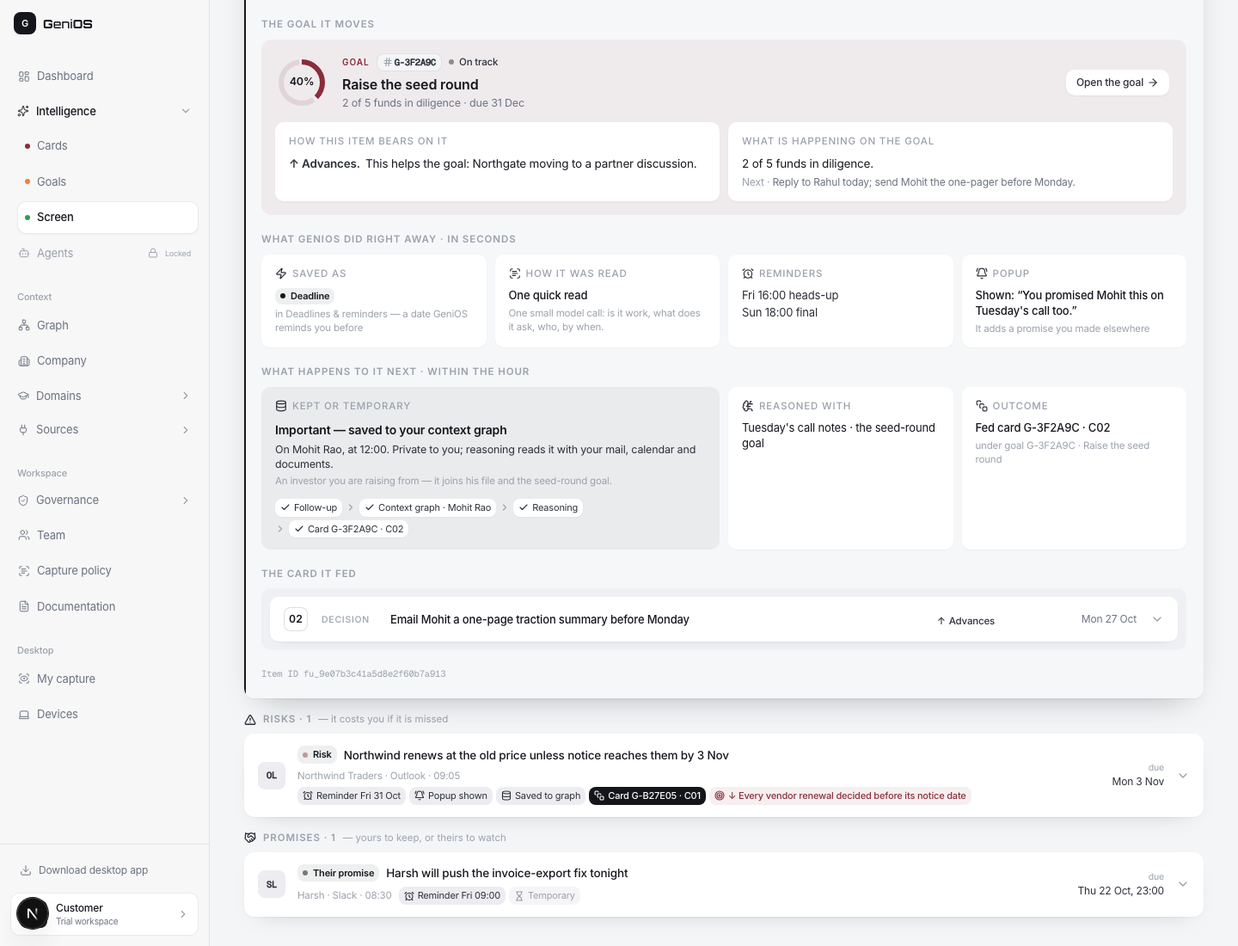
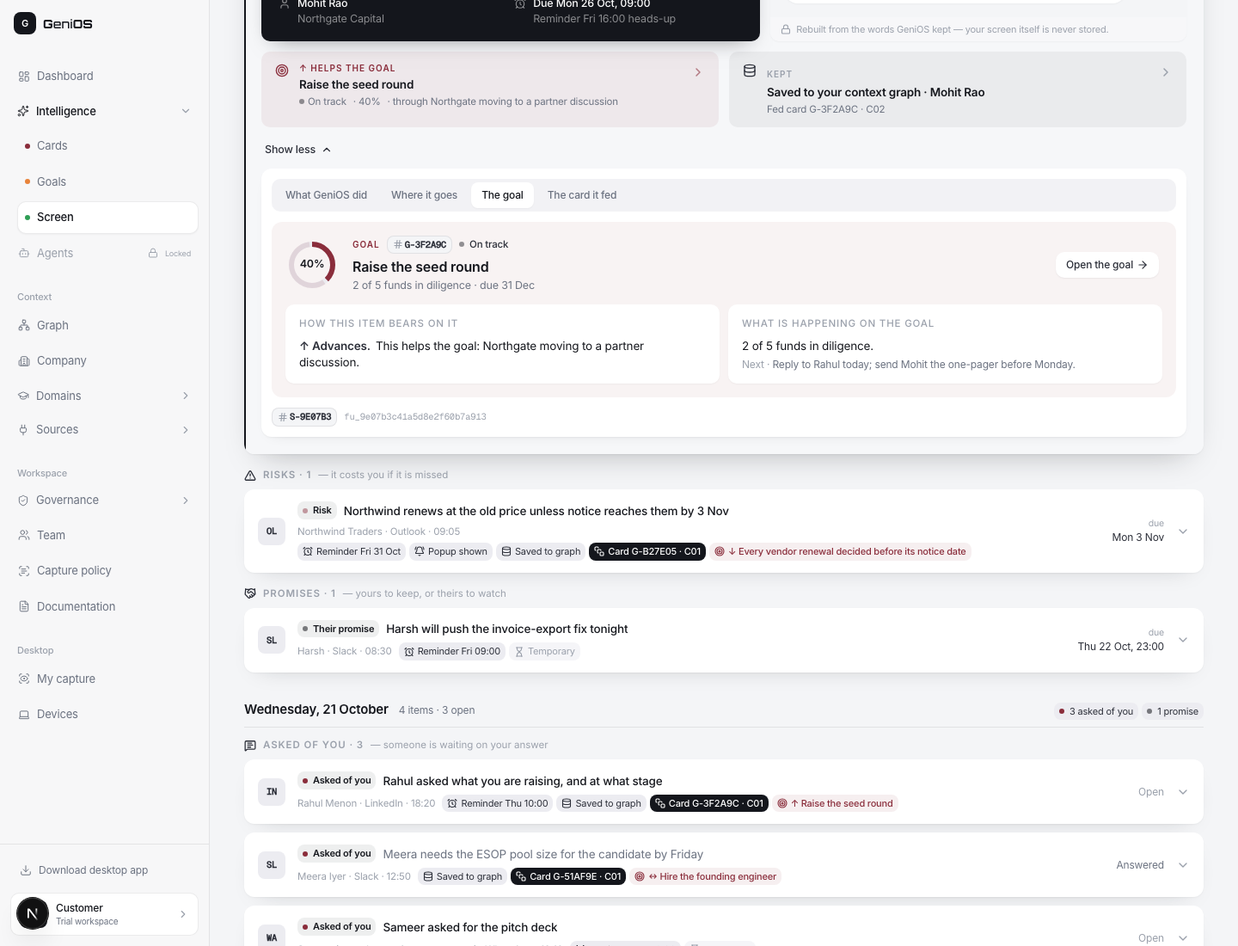
GeniOS-010: Screen round four — an opened item shows what matters first, the rest under Show more
05-SCREEN/README.md §4 rewritten (the five essentials, the Show more tabs), the look table and
files; 01-INTEGRATION.md checks and buttons (⋯ menu); ten screenshots; build review, start page
and log updated.

diff --git a/speedrun008/GeniOS-010/05-SCREEN/README.md b/speedrun008/GeniOS-010/05-SCREEN/README.md
@@ -3,16 +3,17 @@
 **Written for:** Harsh (to wire it in) and Rohit (to review it). The step-by-step wiring — every field, every route, every brain change, the checks — is in **[`01-INTEGRATION.md`](01-INTEGRATION.md)**.
 
 **Status, 22 Oct 2026:**
-- Built on the dashboard branch `rohit/nav-grouping`, in three rounds: `9130f84` (the page), `972d122` (by category, tags, the screen rebuilt, kept or temporary), `9a13d87` (the goal each item moves; cards that stand out by fill, not borders). With `f151019` (the shared card parts) and `5c0504f` (Agents locked). **Not merged, so not live.**
+- Built on the dashboard branch `rohit/nav-grouping`, in four rounds: `9130f84` (the page), `972d122` (by category, tags, the screen rebuilt, kept or temporary), `9a13d87` (the goal each item moves; cards that stand out by fill, not borders), `847eeac` (an opened item shows what matters first; the rest under Show more). With `f151019` (the shared card parts) and `5c0504f` (Agents locked). **Not merged, so not live.**
 - **Route:** `/dashboard/moments`, Intelligence ▸ **Screen**. Members can open it too.
 - **Preview** (the full target, labelled "Preview — not your data"): `/dashboard/moments?demo=1`.
-- `tsc --noEmit` and `next build` are green at `9a13d87`. Checked in the preview at 1440 and 1024 wide, and signed in against the stand-in brain (`../02-DASHBOARD-HOME/tools/mock_brain.py`): Draft a reply and Done ran end to end. The Goals page is unchanged by the shared-part changes (all 10 of its small cards keep their hairline).
+- `tsc --noEmit` and `next build` are green at `847eeac`. Checked in the preview at 1440 and 1024 wide, and signed in against the stand-in brain (`../02-DASHBOARD-HOME/tools/mock_brain.py`): Draft a reply and Done ran end to end. The Goals page is unchanged by the shared-part changes (all 10 of its small cards keep their hairline).
 - It replaces `../02-DASHBOARD-HOME/04-SCREEN.md` (the first, two-lane version).
 
-**What Rohit asked, 22 Oct, in three rounds:**
+**What Rohit asked, 22 Oct, in four rounds:**
 1. *"Screen wale part mein thodi details daal do: kaise, kya, kis tareeke se hoga. Isi tarah ek dummy dikhayein."* and *"Screen aur cards … ek saath ho jaayein, lekin alag-alag rahein."* — and lock Agents.
 2. On the built page: tag every row; *"categories honi chahiye ki Thursday ko kaun-kaun si cheezein kis-kis category mein aayi hain — reminder, update, risk, promise"*; show what was on screen; *"NLP ki madad se one-liner, clear cut"*; where and when properly; *"kuch important hoga to … context graph mein save ho jaayega; temporary rahega to wahin miss ho jaayega"*; *"customer ke hisaab se UX"*.
 3. *"Ye kaun se goal ke saath connected hai … isse goal help ho raha hai aur ye cheezein ho rahi hain"*; and the look: *"kuch cards ko dark kar do, kuch ko white … border mat do; uski jagah thoda sa color idhar-udhar"*.
+4. *"Card ke andar ki details bahut cluttered … zaroori information hi dikhai de; baaki cheezein Show More ke through … clearly segregated."*
 
 **Screenshots** (in `screens/`):
 
@@ -20,13 +21,14 @@
 |---|---|
 | `screen-preview-top.png` | The preview as it opens: the week as a dark band, How Screen works. |
 | `screen-preview-how-and-rules.png` | How Screen works with **The rules** open. |
-| `screen-preview-by-category.png` | What your screen caught: the filters, Thursday's items under their categories, every row with its tags (the goal tag in accent). |
-| `screen-preview-item-open.png` | An item open: the screen rebuilt (due words marked), in one line (dark), who · where · when · due. |
-| `screen-preview-item-goal.png` | The same item: **the goal it moves**, what GeniOS did right away, and what happens next. |
-| `screen-preview-item-card.png` | The card it fed, open inside the item. |
-| `screen-preview-temporary.png` | A temporary item: no goal, not saved to the graph, and why. |
+| `screen-preview-by-category.png` | What your screen caught: the filters, Thursday's items under their categories, rows with their tags. |
+| `screen-preview-item-open.png` | An item opened: only what matters — the line, who and due, the screen rebuilt, the goal strip, the kept strip, Show more. |
+| `screen-preview-show-more.png` | Show more open on *What GeniOS did*. |
+| `screen-preview-item-goal.png` | Show more on *The goal*. |
+| `screen-preview-item-card.png` | Show more on *The card it fed*, the card open. |
+| `screen-preview-temporary.png` | A temporary item: no goal, a follow-up only. |
 | `screen-preview-cards-popups.png` | Cards your screen fed, and the popups. |
-| `screen-signed-in.png` | A signed-in seat against the stand-in brain: real items by category, one open; the goal block says the link is not served yet. |
+| `screen-signed-in.png` | A signed-in seat against the stand-in brain: real items, one open; the goal strip says the link is not served yet. |
 
 ---
 
@@ -78,36 +80,51 @@ Every **work** screen takes **both** paths. The instant path saves what to do no
 
 **Tags on every row:** the category tag first, then — after who · app · time — the next reminder (`Reminder Fri 10:00`), `Popup shown`, `Saved to graph` or `Temporary`, the card it fed (`Card G-3F2A9C · C02`, dark), and **the goal it moves** (`↑ Raise the seed round`, accent). On the right: when it is due, or how it ended.
 
-## 4 · An item, opened
+## 4 · An item, opened (round four: what matters first, the rest under Show more)
+
+Rohit: *"card ke andar ki details bahut cluttered, messed up, aur over-detailed … zaroori information hi dikhai de; baaki Show More … clearly segregated."*
+
+**What a customer sees first** — five things, nothing else:
 
 ```
-SCREEN ITEM #S-9E07B3 · seen on WhatsApp, Thursday 11:40         [Done][Snooze▾][Draft a reply][Done elsewhere][Dismiss]
-ON YOUR SCREEN
- ┌ WhatsApp · chat with Mohit Rao ──────── 11:40 ┐  ┌█ IN ONE LINE (dark) ████████████████████████████████████┐
- │ ┌ Mohit Rao ───────────────────────────────┐   │  █ Mohit wants your traction one-pager before Northgate's  █
- │ │ Partners meet Monday — one-pager on       │   │  █ partner meeting on Monday, 9:00.                         █
- │ │ traction bhej doge _before that_?         │   │  └██████████████████████████████████████████████████████████┘
- │ Rebuilt from the words GeniOS kept — the screen itself is never stored.
- [Who: Mohit Rao · Northgate Capital] [Where: WhatsApp · a chat] [When: Today, 11:40] [Due: Mon 26 Oct, 09:00 · read from "before that"]
-THE GOAL IT MOVES  (accent tint)
- (40%)  GOAL #G-3F2A9C ● On track   Raise the seed round · 2 of 5 funds in diligence · due 31 Dec      [Open the goal →]
- [How this item bears on it: ↑ Advances. This helps the goal: Northgate moving to a partner discussion.]
- [What is happening on the goal: 2 of 5 funds in diligence. Next · Reply to Rahul today; send Mohit the one-pager …]
-WHAT GENIOS DID RIGHT AWAY · IN SECONDS     [Saved as: Deadline] [How it was read] [Reminders] [Popup]
-WHAT HAPPENS TO IT NEXT · WITHIN THE HOUR
- [Kept or temporary: Important — saved to your context graph, on Mohit Rao at 12:00 …
-   ✓ Follow-up › ✓ Context graph · Mohit Rao › ✓ Reasoning › ✓ Card G-3F2A9C · C02]    [Reasoned with] [Outcome]
-THE CARD IT FED     [02] DECISION  Email Mohit a one-page traction summary …   (opens on its own: scenario · reasoning)
+Seen on WhatsApp · today, 11:40                                   [Done] [Snooze ▾] [Draft a reply] [⋯]
+┌█ IN ONE LINE ███████████████████████████████████████┐ ┌ WhatsApp · chat with Mohit Rao ── 11:40 ┐
+█ Mohit wants your traction one-pager before            █ │ ┌ Mohit Rao ─────────────────────────┐ │
+█ Northgate's partner meeting on Monday, 9:00.          █ │ │ Partners meet Monday — one-pager … │ │
+█ ─────────────────────────────────────────────────────█ │ │ bhej doge _before that_?            │ │
+█ 👤 Mohit Rao · Northgate Capital   ⏰ Due Mon 26 Oct, 09:00 · Reminder Fri 16:00 █ │ Rebuilt from the kept words … │
+└██████████████████████████████████████████████████████┘ └──────────────────────────────────────────┘
+┌ ↑ HELPS THE GOAL (accent) ──────────────────────────┐ ┌ KEPT (ink tint) ────────────────────────┐
+│ Raise the seed round                              › │ │ Saved to your context graph · Mohit Rao › │
+│ ● On track · 40% · through Northgate moving …       │ │ Fed card G-3F2A9C · C02                   │
+└─────────────────────────────────────────────────────┘ └───────────────────────────────────────────┘
+Show more ▾ — What GeniOS did · Where it goes · The goal · The card it fed
 ```
 
-- **The screen, rebuilt.** The screen is never stored, so there is no screenshot to show. The page rebuilds what was seen from what *is* kept — the app, the person, the time and the ≤ 12 words — as a chat bubble (WhatsApp, Slack, LinkedIn …; your own message on the right, dark), a mail line (Outlook, Gmail) or a page line (a browser). The words that set the due date are marked.
-- **In one line.** The instant read writes each item as one line (`text`, ≤ 140 characters) from the words on screen; the page shows it with the due it resolved. In the preview the lines read as who · what · by when.
-- **The goal it moves.** See §5.
-- **Kept or temporary.** Important → *saved to your context graph* on the person or company, private to you, reasoned over; the steps show how far it got. Temporary → *not saved to the graph*, with the reason, and the steps follow-up › reminders › closes › removed 90 days after. A temporary item has no "reasoned with" or "outcome": nothing reasons over it.
+1. **Where and when it was seen**, and the actions. Done, Snooze and Draft a reply are up front; Done elsewhere and Dismiss sit under **⋯**.
+2. **In one line** (dark), with **who** and **when it is due** (and the next reminder) underneath — the old Who / Where / When / Due boxes are gone; where and when are in the first line.
+3. **What was on screen**, rebuilt from the kept words.
+4. **The goal it moves**, one strip: helps / puts at risk / waits on · the goal · status · % · through what. Or "Not connected to a goal".
+5. **Where it went**, one strip: kept (saved to your context graph on whom, and the card it fed) or temporary (a follow-up only, removed 90 days after it closes).
+
+**Show more** opens a panel with **one section at a time** (tabs), so it never all shows at once:
+
+| Tab | Holds |
+|---|---|
+| What GeniOS did | saved as (category) · how it was read · reminders (and the words the due was read from) · popup |
+| Where it goes | kept or temporary, with the steps (follow-up › context graph › reasoning › card) · reasoned with · outcome |
+| The goal | the goal with its ring, how this item bears on it, what is happening on the goal, Open the goal — only when there is a goal |
+| The card it fed | the card itself, opening on its own — only when there is one |
+
+- Clicking a strip opens Show more at its tab: the goal strip → *The goal*; the kept strip → *The card it fed* (or *Where it goes*).
+- The item's ids (`S-XXXXXX`, `fu_…`) sit at the foot of the panel.
+- An **open row hides its tags** — the item says the same things below, in words.
+- **The screen, rebuilt.** The screen is never stored, so there is no screenshot to show. The page rebuilds what was seen from what *is* kept — the app, the person, the time and the ≤ 12 words — as a chat bubble (your own message on the right, dark), a mail line or a page line. The words that set the due date are marked.
+- **In one line.** The instant read writes each item as one line (`text`, ≤ 140 characters); the page shows it with the due it resolved.
 
 ## 5 · The goal it moves (round three)
 
-**What it shows, in an accent-tinted block right after "On your screen":**
+**What it shows.** First, as a strip in the opened item (helps / puts at risk / waits on · the goal · status · % · through what). In full under Show more › *The goal*:
 
 | Part | Says | From (preview) | From (live, once served) |
 |---|---|---|---|
@@ -116,7 +133,7 @@ THE CARD IT FED     [02] DECISION  Email Mohit a one-page traction summary …  
 | What is happening on the goal | the goal's progress line, and its next move | the goal's `progress` and `nextMove` | `GET /v1/goals` (`progress`, `next_move`) |
 | Open the goal | a link to Goals | `/dashboard/goals?demo=1` | `/dashboard/goals` |
 
-- **On the row**, a connected item carries the goal as an accent tag: `↑ Raise the seed round`.
+- **On the row** (closed), a connected item carries the goal as an accent tag: `↑ Raise the seed round`.
 - **An item with no goal** says so in a grey line: "Not connected to a goal — nothing on your goal list depends on it." Temporary items have none.
 - **An item can be connected without a card yet** — the preview's Anil item (two angel intros) advances the seed round before any card exists.
 - **Live today** the block says: "Which goal it moves shows once goals and cards are linked (GeniOS-009 G4)." Nothing is guessed.
@@ -129,11 +146,11 @@ Rohit: *"kuch cards ko dark kar do, kuch ko white … border mat do; uski jagah 
 
 | Fill | Used for | Why |
 |---|---|---|
-| **Dark** (`bg-ink`, white text) | the week band at the top · "In one line" in an open item · your own message in the rebuilt chat · the `Card …` tag | what must be read first |
+| **Dark** (`bg-ink`, white text) | the week band at the top · "In one line" (with who and due) in an open item · your own message in the rebuilt chat · the `Card …` tag | what must be read first |
 | **White** with a soft shadow | sections · item rows · the rebuilt screen · "right away" small cards · "reasoned with" · "outcome" · popups · the cards inside an item and in "Cards your screen fed" | the content itself |
-| **Grey tint** (`bg-surface/70`) | who · where · when · due · Read and Sort tiles · the "Right away" lane · the rules · a temporary item's keep box · the box around a nested card | facts and framing, one step back |
+| **Grey tint** (`bg-surface/70`) | Read and Sort tiles · the "Right away" lane · the rules · the Show more tab bar and its small cards · a temporary item's strip · the box around a nested card | facts and framing, one step back |
 | **Accent tint** (`bg-accent/[0.06]`) | the goal block · the "Next" lane · the goal tag on a row | what ties to a goal |
-| **Ink tint** (`bg-ink/[0.05]`) | the keep box of an item saved to the graph | kept, quietly marked |
+| **Ink tint** (`bg-ink/[0.05]`) | the kept strip and keep box of an item saved to the graph | kept, quietly marked |
 
 - Controls keep a hairline (buttons, filter chips, menus): a button should look pressable.
 - **How:** `intel/parts.tsx` · `Mini` takes `tone` — `line` (the default, the Goals look), `white`, `tint`, `accent`; `CardItem`, `CardDeck` and `CardBody` take `flat` (no hairline, white small cards inside). **Goals passes nothing, so Goals is unchanged.** If Rohit likes this look, Goals can switch by passing the same props.
@@ -181,7 +198,8 @@ product/internal/dashboard/screen/
   sample.ts       SAMPLE_SCREEN_VIEW — 10 items, 5 cards and 6 goals (the Goals preview's own), 5 popups
   live.ts         liveScreenView(followups, report, moments) · appName
   screen-page.tsx ScreenPage · Overview (ON_DARK) · HowItWorks (Stage, RULES) · CATEGORY · ItemRow · ItemTags · CategoryTag
-                  · ItemDetails · ScreenSnippet (Marked) · GoalLink · KeepBox · ItemActionsBar · FedBy · PopupRow · FilterChip
+                  · ItemDetails (essentials + Show more tabs) · ScreenSnippet (Marked) · GoalStrip · KeepStrip · DidPanel
+                  · GoesPanel · GoalLink · KeepBox · ItemActionsBar (⋯ menu) · FedBy · PopupRow · FilterChip
 product/internal/dashboard/intel/parts.tsx    shared with Goals: CardItem (+ note, flat) · CardDeck (+ noteOf, flat)
                                               · CardBody (+ tone) · Mini (+ tone, MINI_TONE) · GroupLabel · Sub · Code
                                               · Toggle · RelationTag · RELATION · L1/L2/L3

diff --git a/speedrun008/GeniOS-010/04-BUILD-REVIEW.md b/speedrun008/GeniOS-010/04-BUILD-REVIEW.md
@@ -3,9 +3,9 @@
 **Written for:** Rohit and Harsh, to analyse the work before deciding the next step.
 
 **Status, 22 Oct 2026:**
-- **Branch:** `rohit/nav-grouping` in `genios-brain-dashbaord`, pushed. HEAD is `9a13d87`.
-  - 25 commits on top of `origin/main` `6ddc4db`: 33 files, +7,152 / −906 lines.
-  - `tsc --noEmit` and `next build` are green at `9a13d87`.
+- **Branch:** `rohit/nav-grouping` in `genios-brain-dashbaord`, pushed. HEAD is `847eeac`.
+  - 26 commits on top of `origin/main` `6ddc4db`: 33 files, +7,272 / −906 lines.
+  - `tsc --noEmit` and `next build` are green at `847eeac`.
 - **Not merged, so not live:** brain.thegenios.com serves `main`.
 - **No brain code changed.** Every brain change the design needs is named in §6 and in the folder docs.
 
@@ -240,7 +240,7 @@ Dashboard · Cards · Intelligence ▸ Brain · Graph · Context · Sources ▸ 
 
 ## 4 · Screen
 
-**Details:** `05-SCREEN/README.md` (it replaces `02-DASHBOARD-HOME/04-SCREEN.md`). **Commits:** `0ab7b03` (first version) · `f151019` (shared card parts) · `9130f84` (rebuilt) · `972d122` (by category) · `9a13d87` (the goal it moves; fill, not borders). Wiring for Harsh: `05-SCREEN/01-INTEGRATION.md`.
+**Details:** `05-SCREEN/README.md` (it replaces `02-DASHBOARD-HOME/04-SCREEN.md`). **Commits:** `0ab7b03` (first version) · `f151019` (shared card parts) · `9130f84` (rebuilt) · `972d122` (by category) · `9a13d87` (the goal it moves; fill, not borders) · `847eeac` (what matters first; Show more). Wiring for Harsh: `05-SCREEN/01-INTEGRATION.md`.
 
 **What was there:** Desktop ▸ **Moments**: the popups the desktop app raised, with Useful / Wrong feedback, and This week / Open follow-ups.
 
@@ -267,6 +267,7 @@ Dashboard · Cards · Intelligence ▸ Brain · Graph · Context · Sources ▸ 
 | `9130f84` | details on how and what; a dummy; screen and cards together but apart | the six stages and rules; items with their path; the card nested; cards fed; popups; preview | the two-lane block, This week and Open follow-ups as separate boxes |
 | `972d122` | *"aadha adhoora kyun"*: tag it, sort it by category (reminder, update, risk, promise) inside each day; show the screen; one clear line; where/when properly; important → context graph, temporary → let go; think like the customer | five categories inside each day with counts; category + show filters; tags on every row; the screen rebuilt from the kept words with the due words marked; in one line; who · where · when · due; kept-or-temporary with its steps | the at-once → memory → card track on the row; the bare quote box |
 | `9a13d87` | say which goal an item is connected to and how it helps; some cards dark, some white, colour instead of borders | "The goal it moves" block (goal, how this item bears on it, what is happening on the goal) and an accent goal tag on the row; no hairlines on Screen's cards — dark week band and "In one line", white rows and sections, grey and accent tints; `Mini` tones and `flat` cards in `intel/parts` (Goals unchanged) | hairlines on Screen's cards |
+| `847eeac` | the opened item is cluttered and over-detailed; show what a customer needs, the rest under Show more, clearly separated | first: seen where/when and the actions (⋯ for Done elsewhere / Dismiss), the line with who and due, the screen rebuilt, a goal strip and a kept strip; Show more opens one tab at a time (What GeniOS did · Where it goes · The goal · The card it fed); open rows hide their tags | the Who / Where / When / Due boxes; every section open at once |
 
 **How it integrates:**
 - **Live today:** items with their words, who, due, reminders, how they ended and whether they are in memory; all actions; popups.

diff --git a/speedrun008/GeniOS-010/05-SCREEN/01-INTEGRATION.md b/speedrun008/GeniOS-010/05-SCREEN/01-INTEGRATION.md
@@ -2,7 +2,7 @@
 
 **Written for:** Harsh. Everything needed to take the Screen page live and make every part of it real, without asking: how to run it, what feeds each part, what each button calls, the brain changes in order (with where they go), the dashboard change each one needs, and the checks.
 
-**State:** dashboard `9a13d87` on `rohit/nav-grouping` (not merged). What the page is and why: `README.md`.
+**State:** dashboard `847eeac` on `rohit/nav-grouping` (not merged). What the page is and why: `README.md`.
 
 ---
 
@@ -85,8 +85,8 @@ The stand-in brain serves `GET /v1/followups`, `GET /v1/moments`, the weekly rep
 | Button | Client | Route | Body | Brain | Page after |
 |---|---|---|---|---|---|
 | Done | `resolveFollowup(id, "done")` | `POST /v1/followups/{id}/resolve` | `{resolution:"done"}` | `followups.resolve` | row closes, "S-… done." |
-| Done elsewhere | `resolveFollowup(id, "handled")` | same | `{resolution:"handled"}` | counted as `handled_elsewhere` | row closes |
-| Dismiss | `resolveFollowup(id, "dismissed")` | same | `{resolution:"dismissed"}` | | row closes |
+| ⋯ › Done elsewhere | `resolveFollowup(id, "handled")` | same | `{resolution:"handled"}` | counted as `handled_elsewhere` | row closes |
+| ⋯ › Dismiss | `resolveFollowup(id, "dismissed")` | same | `{resolution:"dismissed"}` | | row closes |
 | Snooze ▾ | `snoozeFollowup(id, "1h" \| "tonight" \| "tomorrow")` | `POST /v1/followups/{id}/snooze` | `{preset}` | `followups.snooze` (seat's zone) | "the next reminder moved to …" |
 | Draft a reply | `draftFollowupReply(id)` | `POST /v1/followups/{id}/draft` | — | `reply_draft.draft` — in the quote's language; never stored or sent; 204 when no model | the draft, with Copy |
 | Useful / Wrong ▾ | `sendMomentFeedback(id, "acted", "useful")` / `(id, "wrong", reason)` | `POST /v1/moments/{id}/feedback` | `{action, reason, at}` | `record_feedback`; on a screen popup, "Wrong" mutes that thread's popups for 7 days (`followups.learn_from_feedback`) | "Noted" |
@@ -132,7 +132,7 @@ Each is small and independent. After each, change `screen/live.ts` as shown; no 
 ## 6 · Checks before you call a part done
 
 1. `npx tsc --noEmit -p .` and `npx next build` green.
-2. **Preview** (`?demo=1`) at 1440 and 1024 wide: no horizontal scroll; Mohit's item (S-9E07B3) opens by itself, with its goal and the card it fed.
+2. **Preview** (`?demo=1`) at 1440 and 1024 wide: no horizontal scroll; Mohit's item (S-9E07B3) opens by itself showing only the line, who and due, the screen, the goal strip and the kept strip; Show more opens one tab at a time.
 3. **Signed in** against the stand-in brain: 5 items over three days; Priya's item shows the rebuilt chat, the line with its due, "Saved to graph"; **Draft a reply** shows "Hi Priya, on it …"; **Done** closes it and the stand-in brain's `GET /v1/followups` returns `"resolution": "done"` for it.
 4. **After each brain change S1–S8**, the matching "not served yet" text is gone from a signed-in page, and nothing else changed (compare against `screens/screen-signed-in.png`).
 5. Goals is untouched: on `/dashboard/goals?demo=1` every small card still has its hairline.

diff --git a/speedrun008/GeniOS-010/LOG.md b/speedrun008/GeniOS-010/LOG.md
@@ -42,3 +42,6 @@
 | 22 Oct | Rohit: Screen is better; in an open item say which goal it is connected to and how it helps; make some cards dark, some white, and use colour instead of borders; then document it in detail for Harsh. | — |
 | 22 Oct | **The goal it moves**, after "On your screen": the goal (code, status, ring, progress, due), how this item bears on it (↑ advances / ↓ threatens / ↔ depends on, and through what) and what is happening on it (progress, next move), with Open the goal; an accent goal tag on connected rows; live says the link arrives with G4. **Fill, not borders** on Screen: dark week band, dark "In one line", your own chat message dark; white rows and sections; grey tints for facts and framing; accent tints for the goal block and the "Next" lane. `intel/parts`: `Mini` tones, `flat` cards — Goals unchanged (10 of 10 small cards keep their hairline, checked). `tsc` and `next build` green; checked in the preview and signed in. | dashboard `9a13d87` |
 | 22 Oct | Docs for Harsh: `05-SCREEN/README.md` rewritten (three rounds, the goal block, the look and why, live vs preview); `05-SCREEN/01-INTEGRATION.md` (new): run it three ways, the data flow, what feeds every part (live / partly / sample), what every button calls, brain changes S1–S8 in order with where each goes and the `live.ts` line it needs, checks, merge notes. Nine screenshots. B8, build review and start page point to it. | this folder |
+| 22 Oct | Rohit: the opened screen item is cluttered and over-detailed; show only what a customer needs, the rest under Show more, clearly separated. | — |
+| 22 Oct | **An opened item, what matters first.** Seen where/when and the actions (Done · Snooze · Draft a reply · ⋯ Done elsewhere / Dismiss); the line in a dark card with who and due and the next reminder; the screen rebuilt; a goal strip and a kept strip, each opening its own tab. **Show more** opens one section at a time: What GeniOS did · Where it goes · The goal · The card it fed (the last two only when they exist). The Who / Where / When / Due boxes are gone; an open row hides its tags. Checked at 1440 and 1024 and signed in; `tsc` and `next build` green. | dashboard `847eeac` |
+| 22 Oct | Docs: `05-SCREEN/README.md` §4 rewritten (the essentials, the tabs), the look table, files; `01-INTEGRATION.md` checks and buttons; ten screenshots; build review, start page. | this folder |

diff --git a/speedrun008/GeniOS-010/00-START-HERE.md b/speedrun008/GeniOS-010/00-START-HERE.md
@@ -4,7 +4,7 @@
 
 **Status, 22 Oct 2026:**
 - Built and tested, but **not live**.
-- Everything is on the dashboard branch `rohit/nav-grouping` in `github.com/themoronss/genios-brain-dashbaord`: 25 commits on top of `origin/main` `6ddc4db` (33 files, +7,152 / −906), HEAD `9a13d87`. `f137d41` … `cc1b58f` are the Goals page; `5c0504f` locks Agents; `f151019`, `9130f84`, `972d122` and `9a13d87` rebuild the Screen page.
+- Everything is on the dashboard branch `rohit/nav-grouping` in `github.com/themoronss/genios-brain-dashbaord`: 26 commits on top of `origin/main` `6ddc4db` (33 files, +7,272 / −906), HEAD `847eeac`. `f137d41` … `cc1b58f` are the Goals page; `5c0504f` locks Agents; `f151019`, `9130f84`, `972d122`, `9a13d87` and `847eeac` rebuild the Screen page.
 - **For the analysis, start with [`04-BUILD-REVIEW.md`](04-BUILD-REVIEW.md):** for every part, what was there, what we built, why, how, each round of review and what was dropped, how it integrates, the risks, and Harsh's integration order.
 - brain.thegenios.com serves `main`, so nothing here is visible until that branch is merged.
 - No brain code changed for any of this. Every brain change the design needs is listed in `02-DASHBOARD-HOME/05-BRAIN-WORK.md` and `03-GOALS/README.md`.
